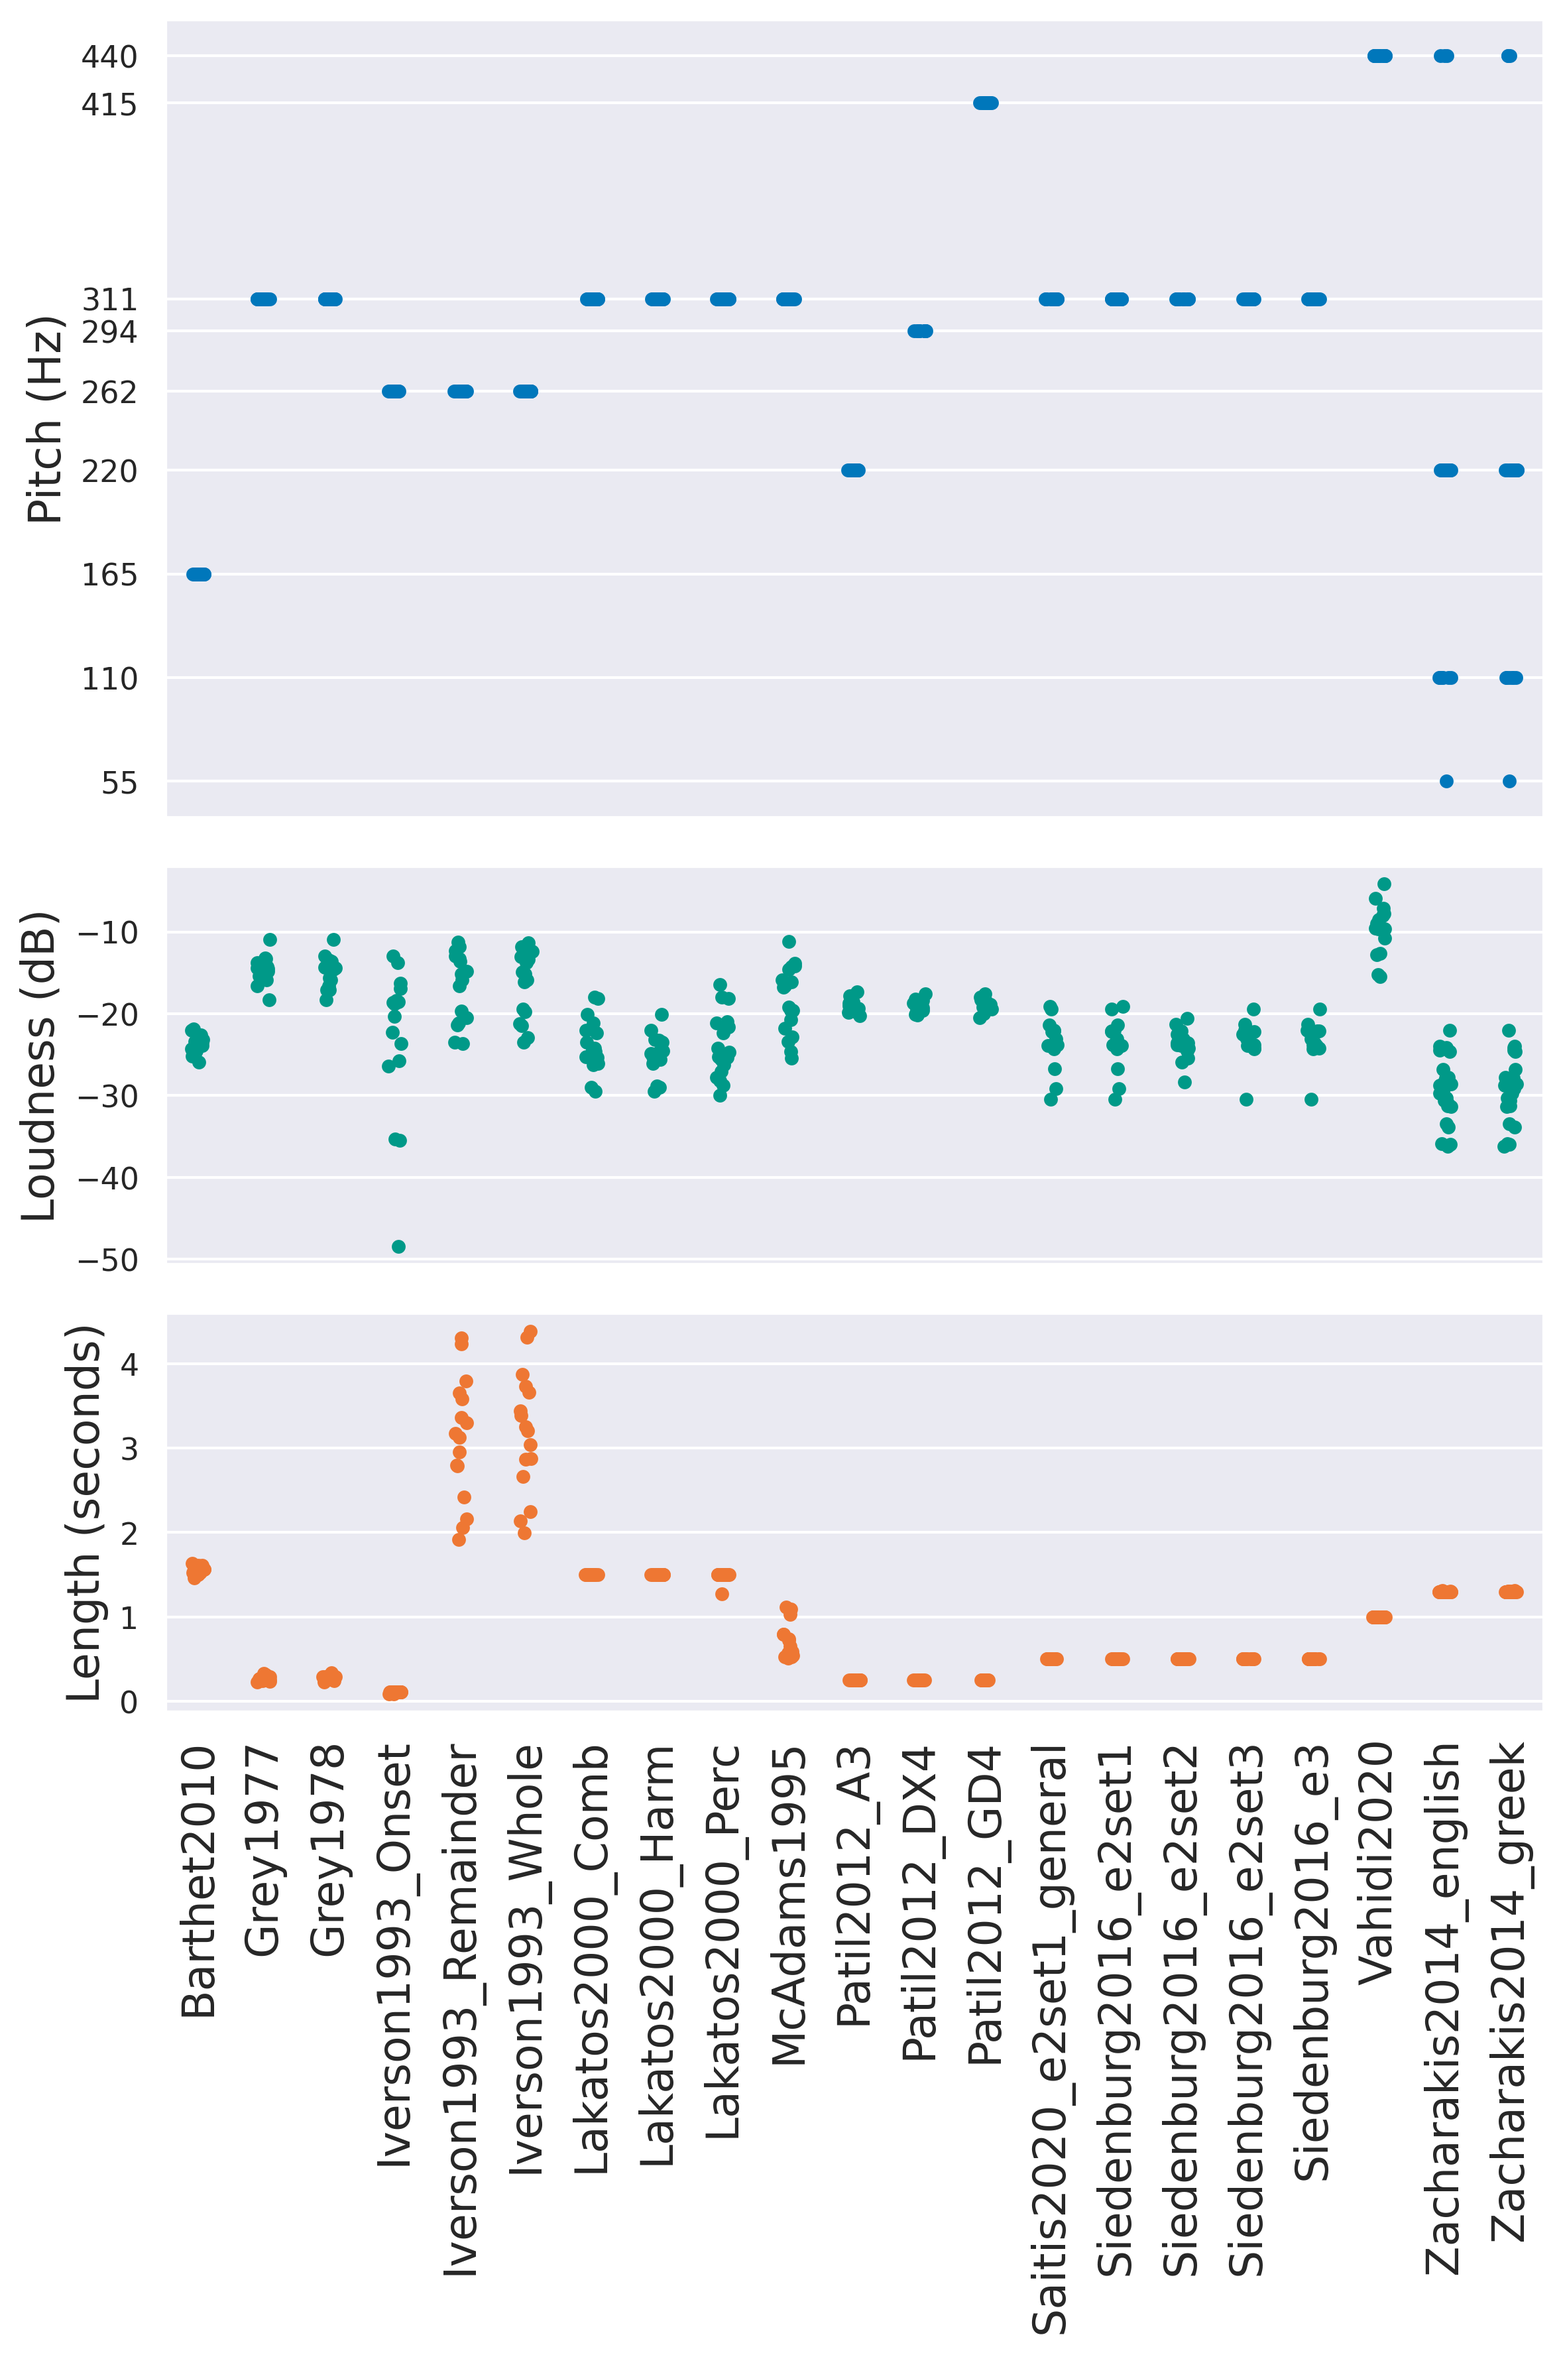
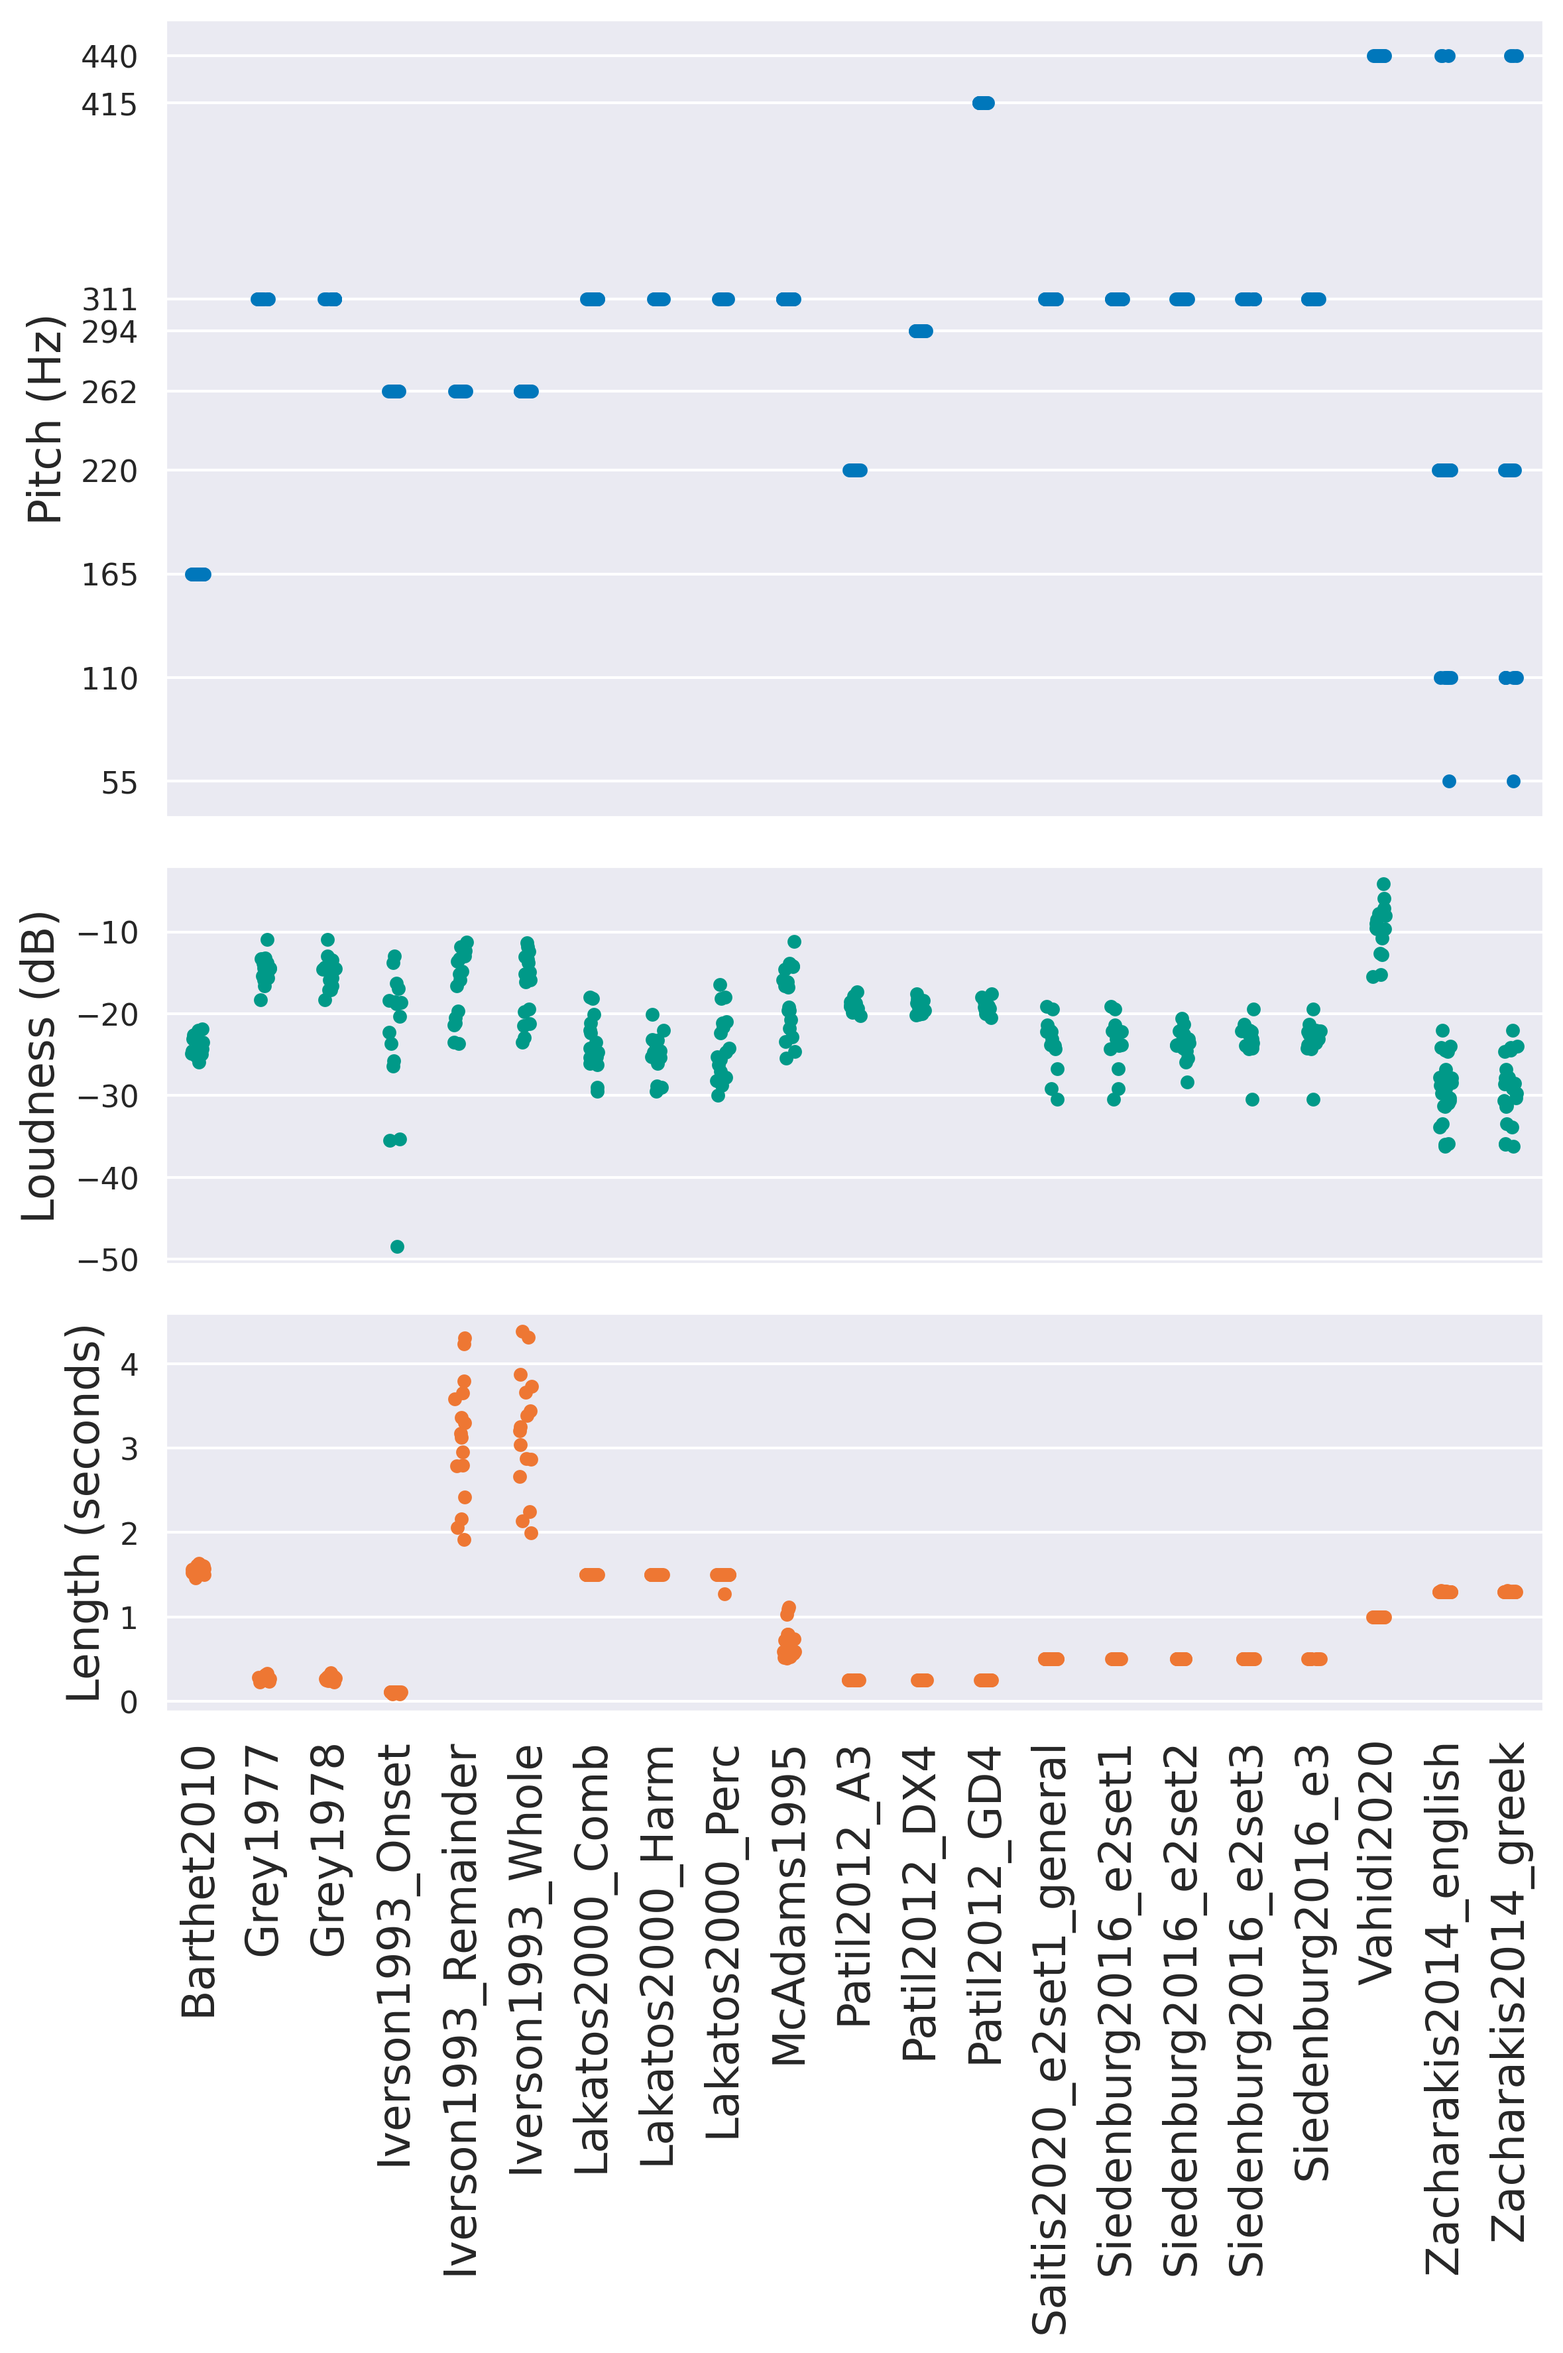
update plot

diff --git a/scripts/plot_pitch_loudness_length.py b/scripts/plot_pitch_loudness_length.py
@@ -27,9 +27,9 @@ pitch = {
     "Iverson1993_Onset": [262] * 16,
     "Iverson1993_Remainder": [262] * 16,
     "Iverson1993_Whole": [262] * 16,
-    "Lakatos2000_Comb": [311] * 20,
+    "Lakatos2000_Comb": [311] * 15, # 5 are weakly- or non-pitched
     "Lakatos2000_Harm": [311] * 17,
-    "Lakatos2000_Perc": [311] * 18,
+    "Lakatos2000_Perc": [311] * 7, # 11 are weakly- or non-pitched
     "McAdams1995": [311] * 18,
     "Patil2012_A3": [220] * 11,
     "Patil2012_DX4": [294] * 11,
